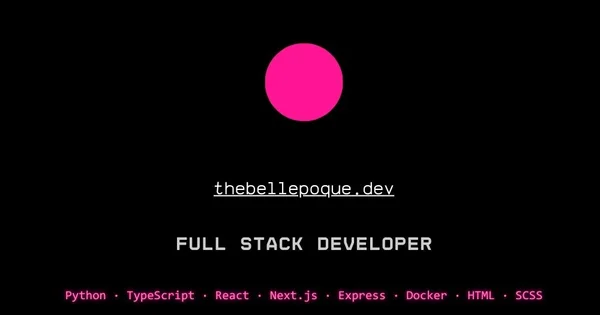
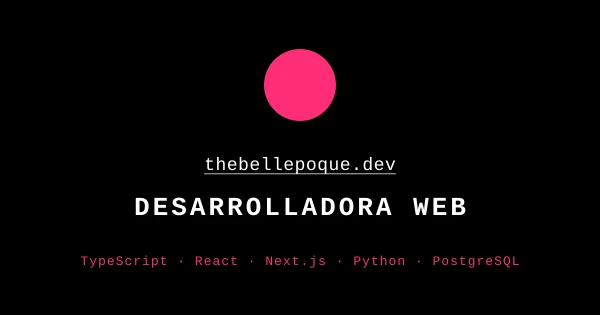
fix(marca): unificar título a 'Desarrolladora Web' en todo el sitio
- config.ts, Hero, JSON-LD y OG image actualizados
- Stack en OG image: TypeScript · React · Next.js · Python · PostgreSQL
- Tests actualizados para reflejar el nuevo título

diff --git a/src/lib/metadata.test.ts b/src/lib/metadata.test.ts
@@ -17,12 +17,12 @@ describe('buildMetadata', () => {
 
   it('omite el sufijo cuando noSuffix es true', () => {
     const result = buildMetadata({
-      title: 'Ione | Full-stack Developer',
+      title: 'Ione | Desarrolladora Web',
       description: 'Desc',
       noSuffix: true,
     });
 
-    expect(result.title).toBe('Ione | Full-stack Developer');
+    expect(result.title).toBe('Ione | Desarrolladora Web');
   });
 
   it('construye la URL canónica a partir de path', () => {
@@ -228,7 +228,7 @@ describe('buildHomeJsonLd', () => {
   it('incluye jobTitle y description', () => {
     const result = buildHomeJsonLd();
 
-    expect(result.jobTitle).toBe('Full-stack Developer');
+    expect(result.jobTitle).toBe('Desarrolladora Web');
     expect(result.description).toContain('full-stack');
   });
 });

diff --git a/src/app/page.tsx b/src/app/page.tsx
@@ -5,7 +5,7 @@ import { Contact } from '@/components/Contact';
 import { buildMetadata, buildHomeJsonLd } from '@/lib/metadata';
 
 export const metadata: Metadata = buildMetadata({
-  title: 'Desarrolladora Web',
+  title: 'Portfolio',
   description:
     'Portfolio de Ione: Desarrolladora Web. Python, JavaScript, React, TypeScript & Automatizaciones.',
 });

diff --git a/src/components/Hero.test.tsx b/src/components/Hero.test.tsx
@@ -10,7 +10,7 @@ describe('Hero', () => {
     expect(screen.getByRole('heading', { name: /ione/i })).toBeInTheDocument();
     expect(screen.getByText('@thebellepoque')).toBeInTheDocument();
     expect(
-      screen.getByText(/Full-stack Developer \| Automatizaciones/i),
+      screen.getByText(/Desarrolladora Web \| Automatizaciones/i),
     ).toBeInTheDocument();
   });
 

diff --git a/src/components/Hero.tsx b/src/components/Hero.tsx
@@ -41,7 +41,7 @@ export function Hero() {
 
           {/* Descripción */}
           <p className="hero__subtitle">
-            Full-stack Developer | Automatizaciones
+            Desarrolladora Web | Automatizaciones
           </p>
 
           {/* Bio */}

diff --git a/src/lib/config.ts b/src/lib/config.ts
@@ -1,7 +1,7 @@
 export const SITE_CONFIG = {
   name: "Ione",
   username: "thebellepoque",
-  title: "Full-stack Developer",
+  title: "Desarrolladora Web",
   baseUrl: "https://www.thebellepoque.dev",
   locale: "es_ES",
   cvUrl: "/ione_cv_2026.pdf",

diff --git a/src/lib/metadata.ts b/src/lib/metadata.ts
@@ -114,7 +114,7 @@ export function buildHomeJsonLd(): JsonLd {
       SITE_CONFIG.social.github,
       SITE_CONFIG.social.linkedin,
     ],
-    jobTitle: 'Full-stack Developer',
+    jobTitle: 'Desarrolladora Web',
     description:
       'Desarrolladora full-stack especializada en React, TypeScript y automatizaciones.',
   };